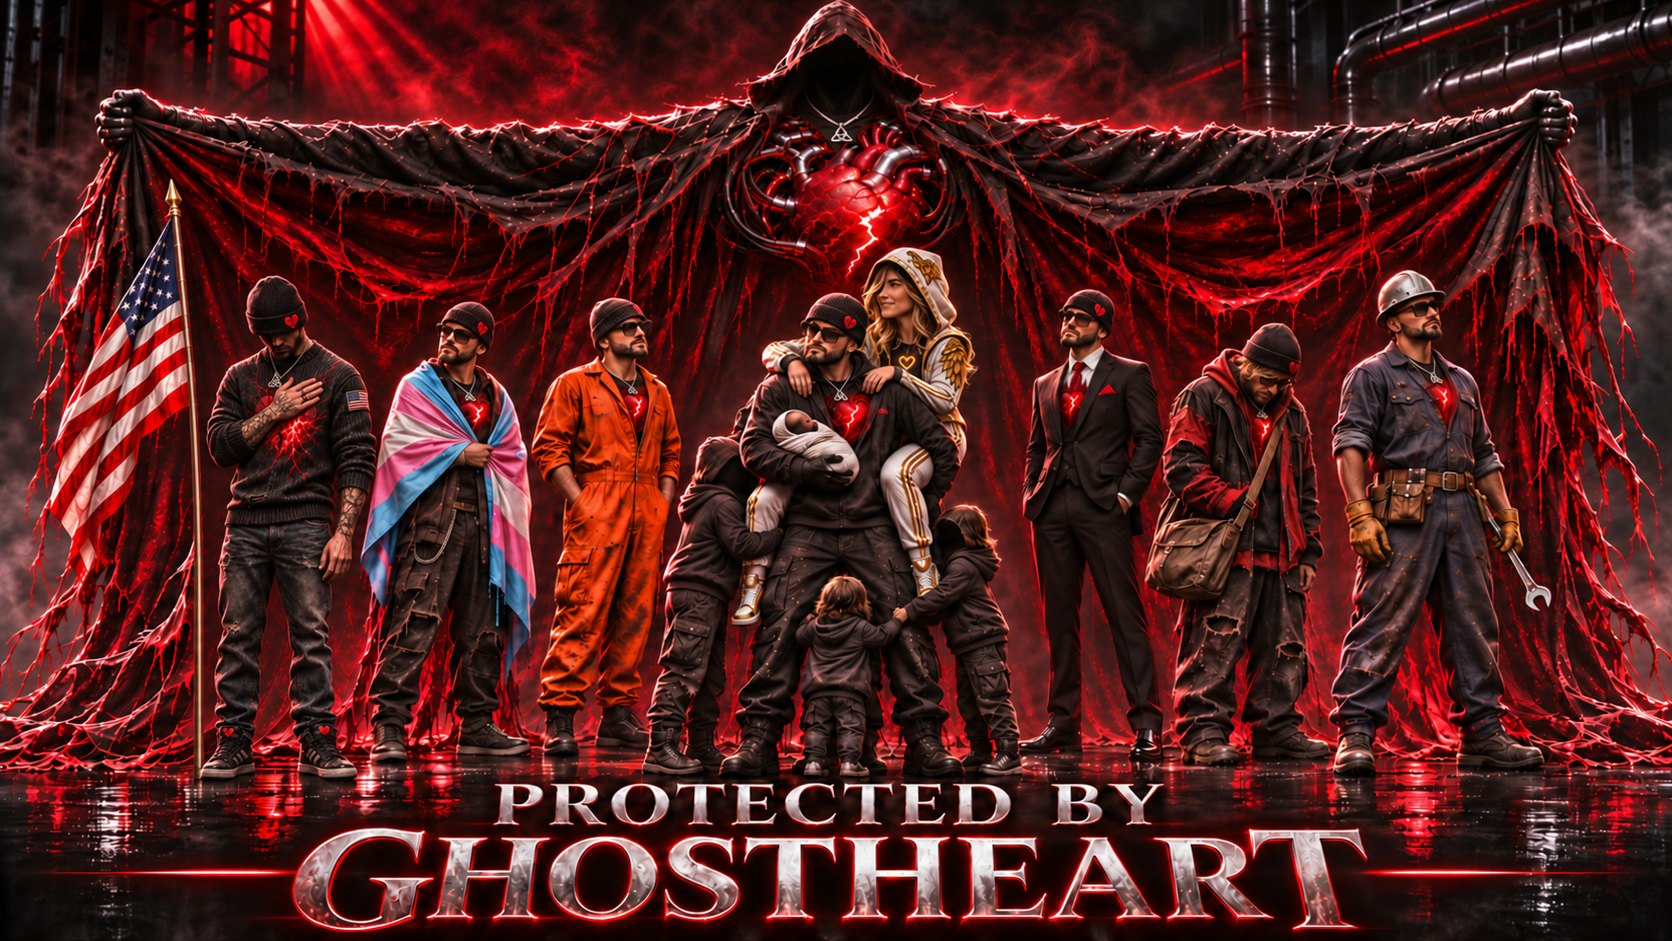
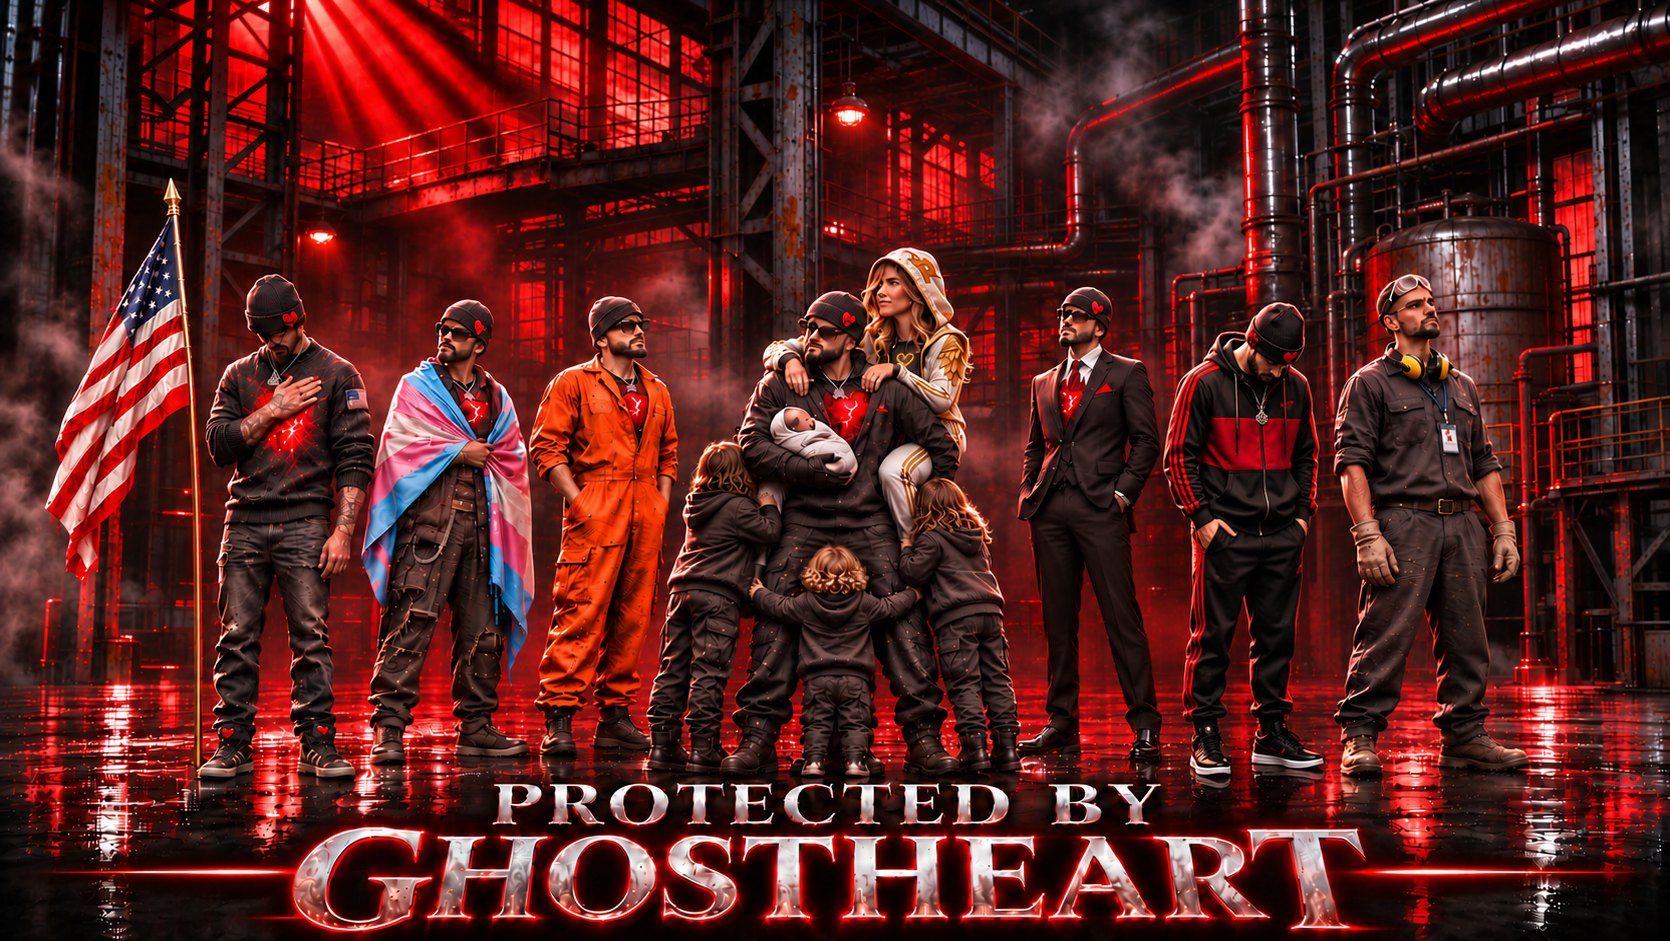
GhostHeart page: new Protected by GhostHeart picture
Dom's new picture replaces the old one on the GhostHeart page. Same file
name, so nothing else moves. The picture's description for screen readers
is rewritten to match what is in it now.

diff --git a/index.html b/index.html
@@ -1221,7 +1221,7 @@ html body #v-story .ng-note{flex-basis:100%;font:400 21px/1.2 var(--nh-spray);co
     <div class="ng-picside">
       <div class="ng-pic" id="banner">
         <div class="banner-frame">
-          <img src="/assets/protector/banner.jpg" alt="Protected by GhostHeart: the hooded, faceless GhostHeart holds a torn red-and-black cloak over a row of people, among them a person with the flag, a trans person in the trans flag, a man in prison orange, a father carrying his family, a man in a suit, a man carrying everything he owns, and a worker with a wrench." width="1672" height="941">
+          <img src="/assets/protector/banner.jpg" alt="Protected by GhostHeart: a row of people standing together in a red-lit factory yard, each with a glowing cracked heart. A man with his hand on his heart beside the flag, a trans person wrapped in the trans flag, a man in prison orange, a father carrying his family, a man in a suit, a man in a hooded jacket with his head down, and a worker." width="1670" height="941">
       <span class="hbs" aria-hidden="true"><span class="hb" style="left:50.2%;top:20.5%;width:17%;animation-delay:0s"></span><span class="hb" style="left:50.8%;top:43.5%;width:5%;animation-delay:0.12s"></span><span class="hb" style="left:38.3%;top:42.5%;width:5%;animation-delay:0.2s"></span><span class="hb" style="left:64.3%;top:43%;width:5%;animation-delay:0.2s"></span><span class="hb" style="left:28.1%;top:43.5%;width:5%;animation-delay:0.3s"></span><span class="hb" style="left:75.5%;top:45.7%;width:5%;animation-delay:0.3s"></span><span class="hb" style="left:17.3%;top:43%;width:5%;animation-delay:0.4s"></span><span class="hb" style="left:85.9%;top:42.5%;width:5%;animation-delay:0.4s"></span></span>
       <span class="shine" aria-hidden="true"></span>
       <i class="cn c1" aria-hidden="true"></i><i class="cn c2" aria-hidden="true"></i><i class="cn c3" aria-hidden="true"></i><i class="cn c4" aria-hidden="true"></i>
